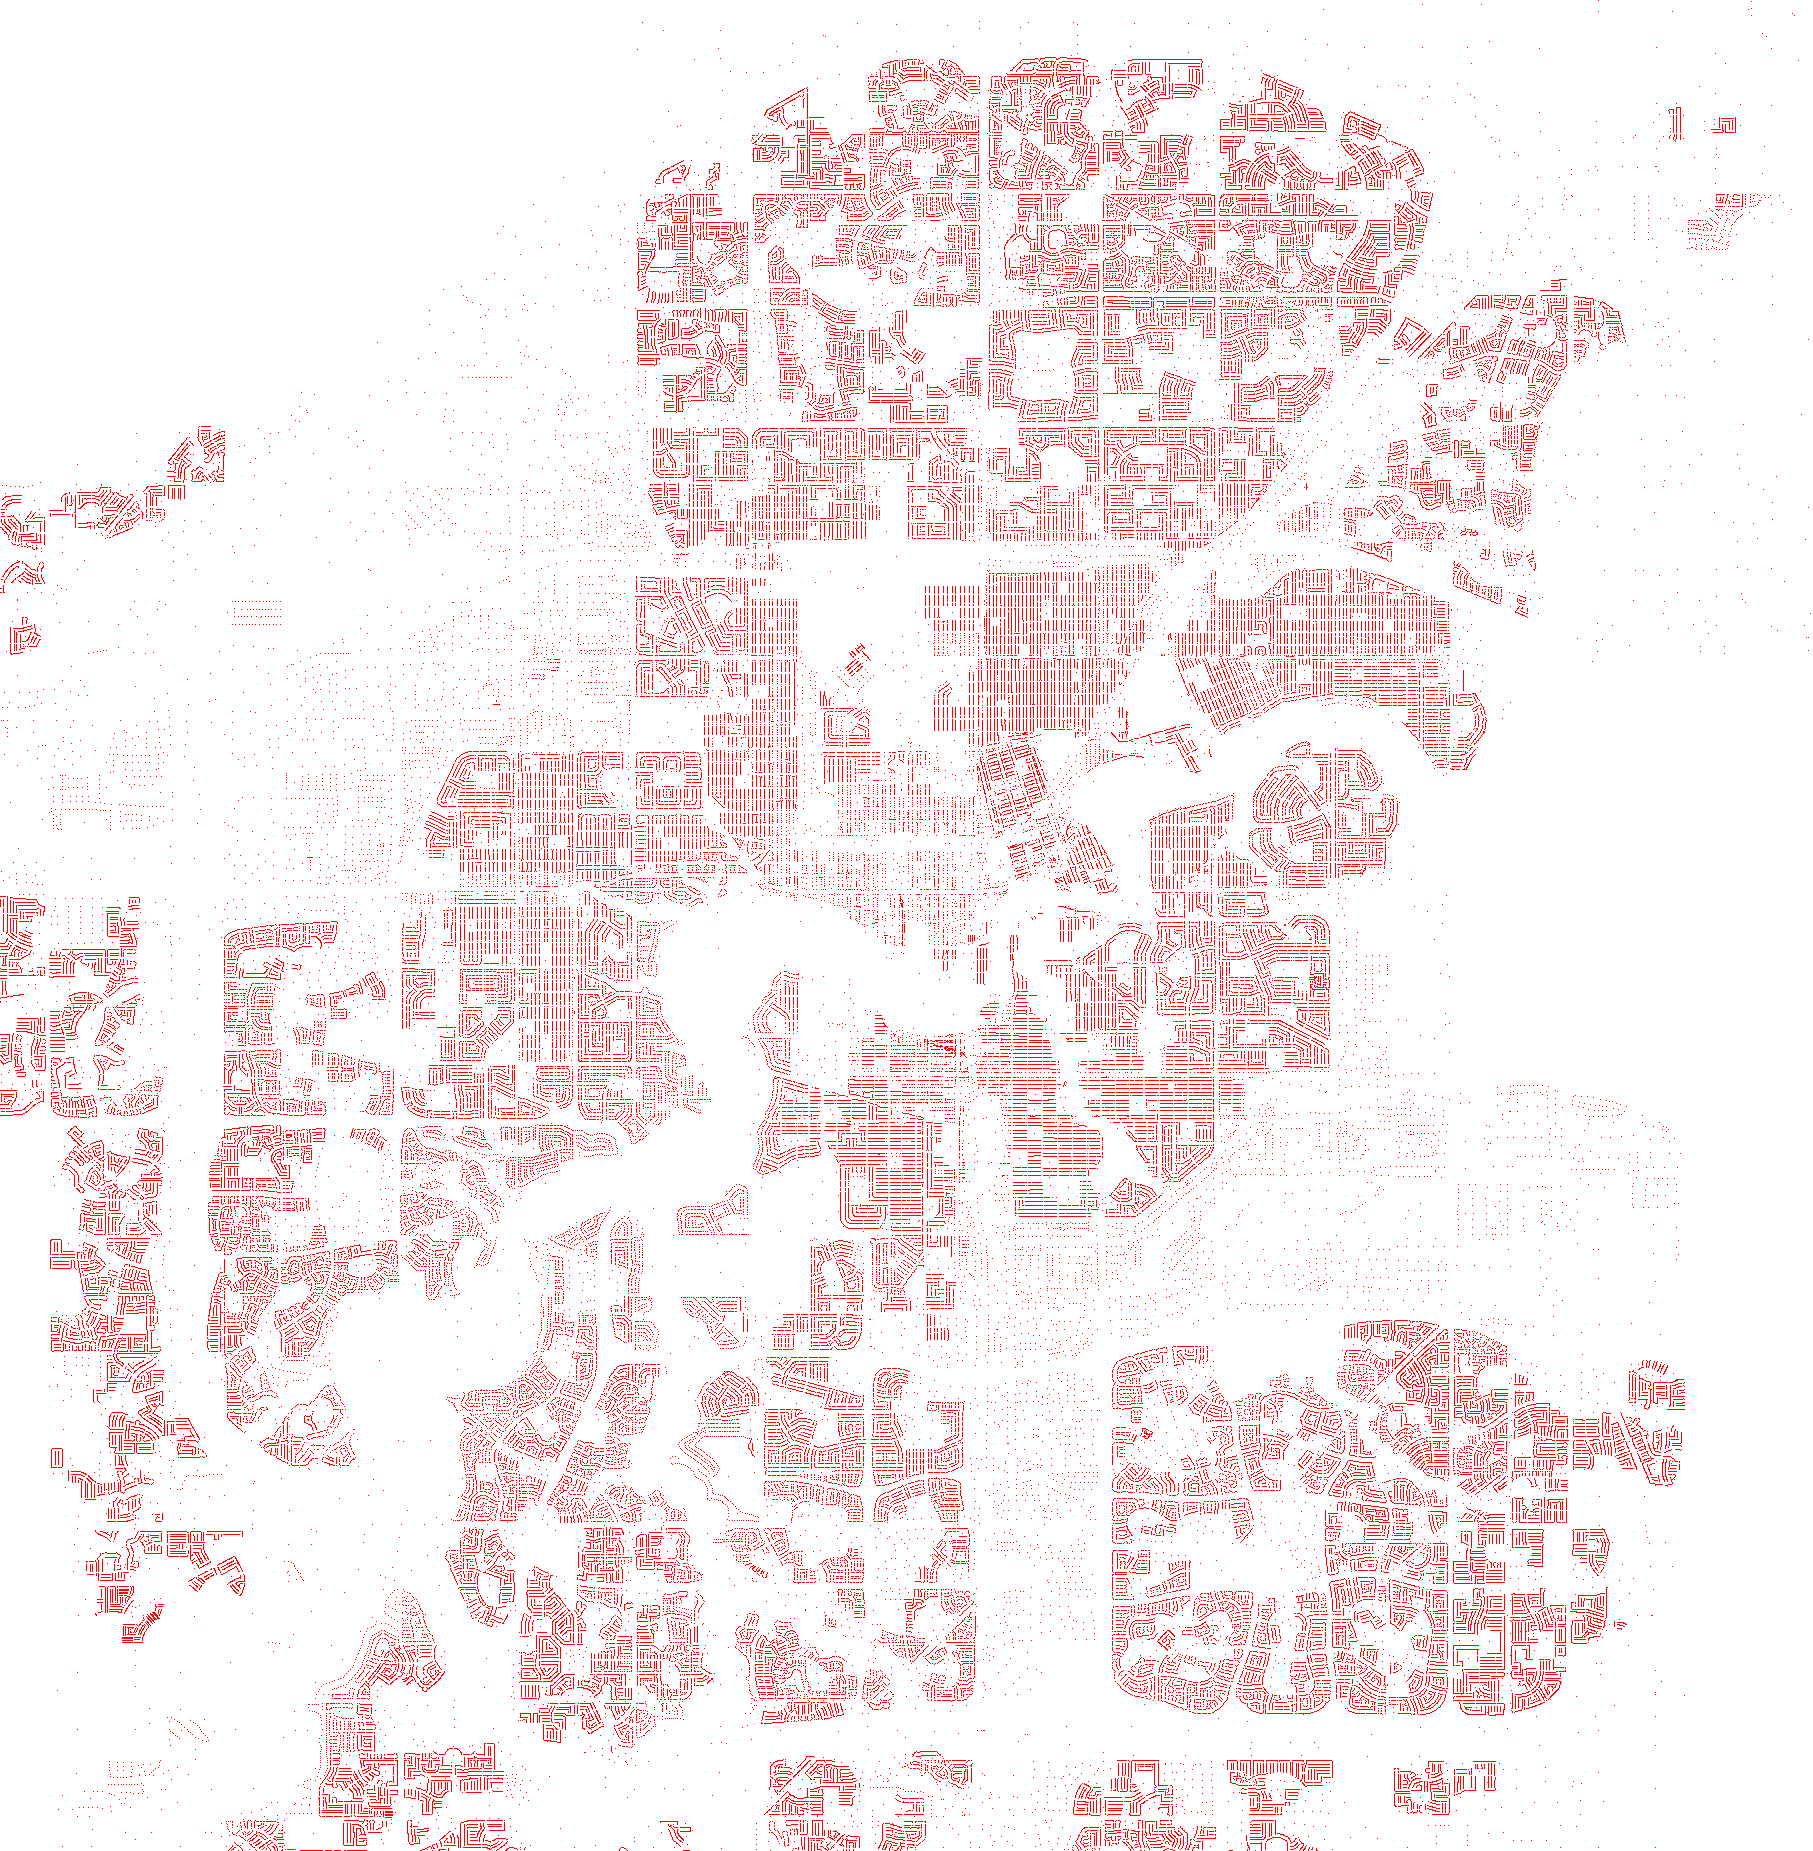
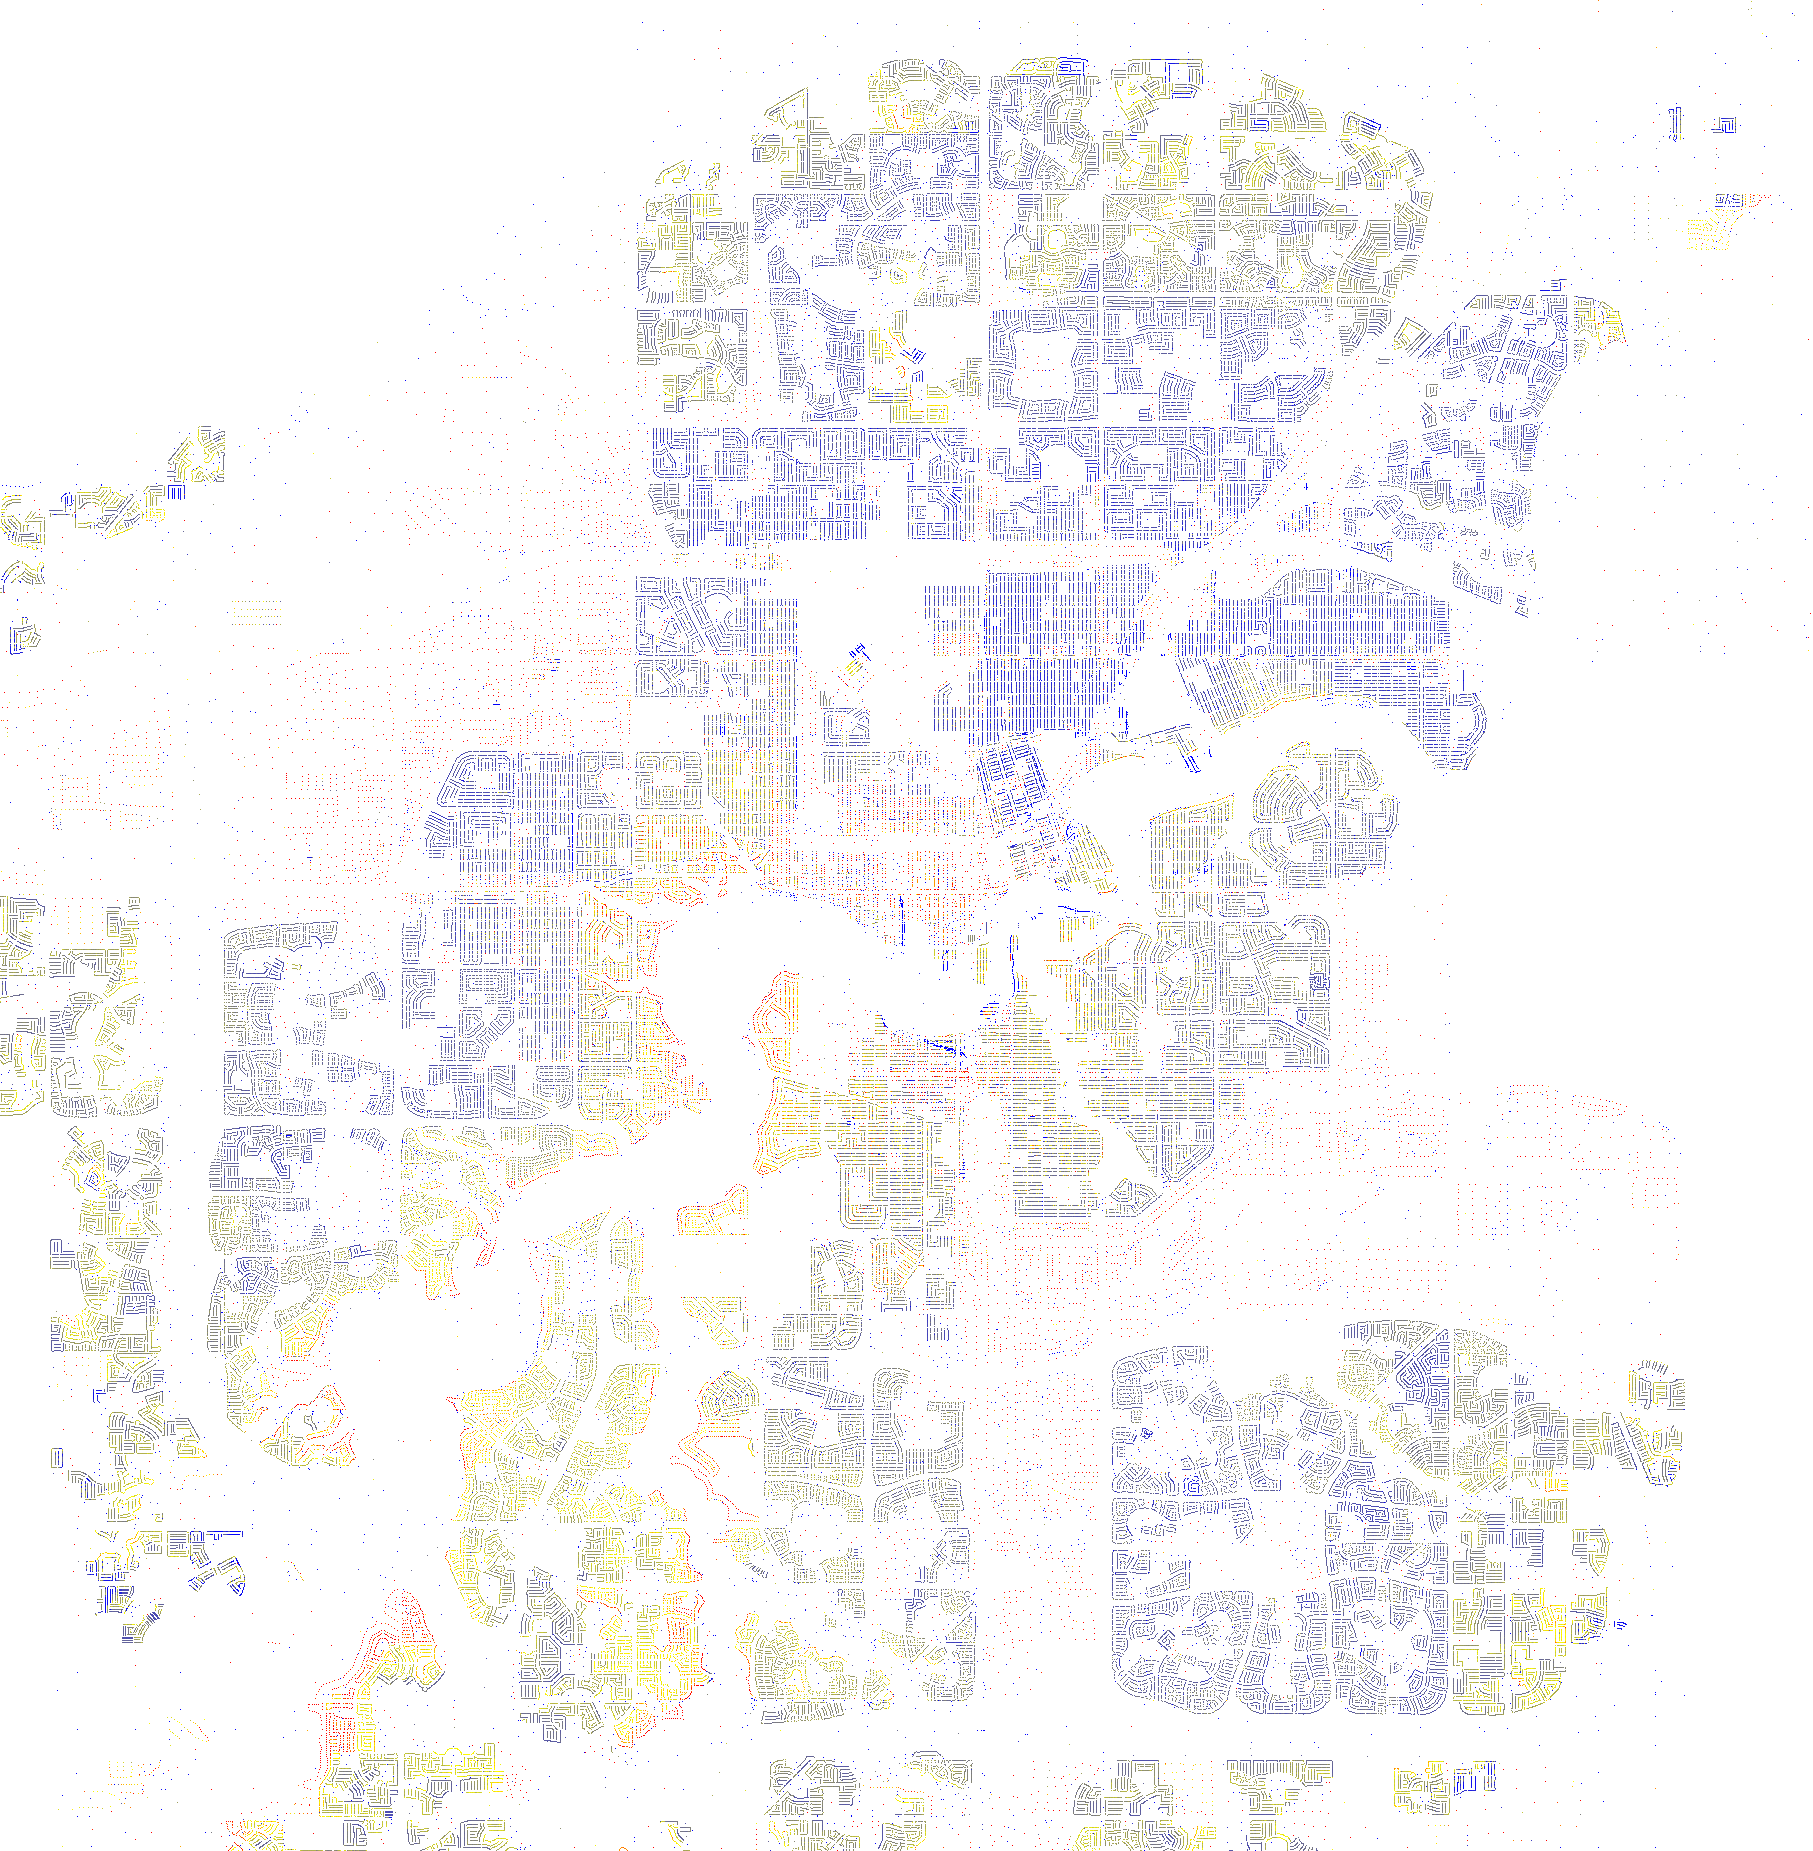
Added gradient to overlays

diff --git a/src/main/java/ca/macewan/thebatmap/utils/general/DrawOverlay.java b/src/main/java/ca/macewan/thebatmap/utils/general/DrawOverlay.java
@@ -5,34 +5,38 @@ import java.awt.*;
 import java.awt.image.BufferedImage;
 import java.io.File;
 import java.io.IOException;
-import java.util.Set;
+import java.util.*;
 
 public class DrawOverlay {
     private static final CalculatePixelValue pixels = new CalculatePixelValue();
-    private static final Set<String> crimePixels = pixels.getCrimePixels().keySet();
-    private static final Set<String> propertyPixels = pixels.getPropertyPixels().keySet();
     private static final int width = CoordinateToPixel.getMapWidth() + 1;
     private static final int height = CoordinateToPixel.getMapHeight() + 1;
-
-    // Create the new image needed
     private static final BufferedImage img = new BufferedImage(width, height, BufferedImage.TYPE_INT_ARGB);
 
     public static void main(String[] args) {
+        try {
+            pixels.loadData();
+        } catch (IOException e) {
+            throw new RuntimeException(e);
+        }
         drawImage(0);
         drawImage(1);
     }
 
     public static void drawImage(int mode) {
-        Set<String> data;
         String type;
+        Map<String, Double> pixelValues;
+
         if (mode == 0) {
-            data = crimePixels;
             type = "crime";
+            pixelValues = getPixelValues(pixels.getCrimePixels());
         }
         else {
-            data = propertyPixels;
             type = "property";
+            pixelValues = getPixelValues(pixels.getPropertyPixels());
         }
+
+        Map<String, Color> gradientMap = gradientMap(pixelValues, mode);
 
         Graphics2D g2d = img.createGraphics();
 
@@ -40,10 +44,10 @@ public class DrawOverlay {
         g2d.fillRect(0, 0, width, height);
 
         g2d.setComposite(AlphaComposite.Src);
-        g2d.setColor(Color.RED);
 
-        for (String current : data) {
-            String[] coordinate = current.split(",");
+        for (Map.Entry<String, Color> current: gradientMap.entrySet()) {
+            g2d.setColor(current.getValue());
+            String[] coordinate = current.getKey().split(",");
             int x = Integer.parseInt(coordinate[0]);
             int y = Integer.parseInt(coordinate[1]);
             g2d.fillRect(x, y, 1, 1);
@@ -55,5 +59,68 @@ public class DrawOverlay {
 
         try { ImageIO.write(img, "png", outputfile); }
         catch (IOException _) { }
+    }
+
+    /**
+     * Normalizes neighbourhoods' mean values into RGB values from Blue (min) -> Green -> Red (max).
+     *
+     * @return Map of Coordinate as Key, Color as Value
+     */
+    public static Map<String, Color> gradientMap(Map<String, Double> pixelValues, int mode) {
+        Map<String, Color> colorMap = new LinkedHashMap<>();
+        double normalized;
+
+        for (Map.Entry<String, Double> current : pixelValues.entrySet()) {
+            if (mode == 0) {
+                normalized = CalculatePixelValue.normalizeCount(current.getValue());
+            }
+            else {
+                normalized = CalculatePixelValue.normalizeValue(current.getValue());
+            }
+            colorMap.put(current.getKey(), getGradientColor(normalized));
+        }
+
+        return colorMap;
+    }
+
+    private static <T> Map<String, Double> getPixelValues(Map<String, T> pixelData) {
+        Map<String, Double> pixelValues = new HashMap<>();
+        double value;
+
+        for (Map.Entry<String, T> entry : pixelData.entrySet()) {
+            if (entry.getValue() instanceof CalculatePixelValue.CrimePixelData) {
+                value = ((CalculatePixelValue.CrimePixelData) entry.getValue()).getCount();
+            }
+            else {
+                value = ((CalculatePixelValue.PropertyPixelData) entry.getValue()).getAverageValue();
+            }
+
+            pixelValues.put(entry.getKey(), value);
+        }
+        return pixelValues;
+    }
+
+    /**
+     * Convert normalized value into RGB values. Blue (min) -> Green -> Red (max).
+     * @param value - Normalized value between 0 - 1
+     * @return - Color(r,g,b)
+     */
+    private static Color getGradientColor(double value) {
+        int r, g, b;
+
+        if (value < 0.5) {
+            // Blue (0, 0, 255) to Yellow (255, 255, 0)
+            double ratio = value / 0.5;
+            r = (int) (255 * ratio);
+            g = (int) (255 * ratio);
+            b = (int) (255 * (1 - ratio));
+        } else {
+            // Yellow (255, 255, 0) to Red (255, 0, 0)
+            double ratio = (value - 0.5) / 0.5;
+            r = 255;
+            g = (int) (255 * (1 - ratio));
+            b = 0;
+        }
+        return new Color(r, g, b);
     }
 }

diff --git a/src/main/java/ca/macewan/thebatmap/utils/general/CalculatePixelValue.java b/src/main/java/ca/macewan/thebatmap/utils/general/CalculatePixelValue.java
@@ -21,14 +21,6 @@ public class CalculatePixelValue {
     private Map<String, CrimePixelData> crimePixels = new HashMap<>();
     private Map<String, PropertyPixelData> propertyPixels = new HashMap<>();
 
-    public CalculatePixelValue() {
-        try {
-            loadData();
-        } catch (IOException e) {
-            throw new RuntimeException(e);
-        }
-    }
-
     public Map<String, CrimePixelData> getCrimePixels() {
         return crimePixels;
     }
@@ -356,9 +348,9 @@ public class CalculatePixelValue {
      * @param count Crime count
      * @return Normalized intensity (0-1)
      */
-    private double normalizeCount(int count) {
+    public static double normalizeCount(double count) {
         // Will need to adjust this value based on the data
-        final int MAX_EXPECTED_COUNT = 10;
+        final int MAX_EXPECTED_COUNT = 50;
 
         return Math.min(1.0, count / (double) MAX_EXPECTED_COUNT);
     }
@@ -368,10 +360,10 @@ public class CalculatePixelValue {
      * @param value Property value
      * @return Normalized intensity (0-1)
      */
-    private double normalizeValue(double value) {
+    public static double normalizeValue(double value) {
         // Will need to adjust these thresholds based on the data
         final double MIN_EXPECTED_VALUE = 100000.0;
-        final double MAX_EXPECTED_VALUE = 1000000.0;
+        final double MAX_EXPECTED_VALUE = 1500000.0;
 
         if (value < MIN_EXPECTED_VALUE) {
             return 0.0;
